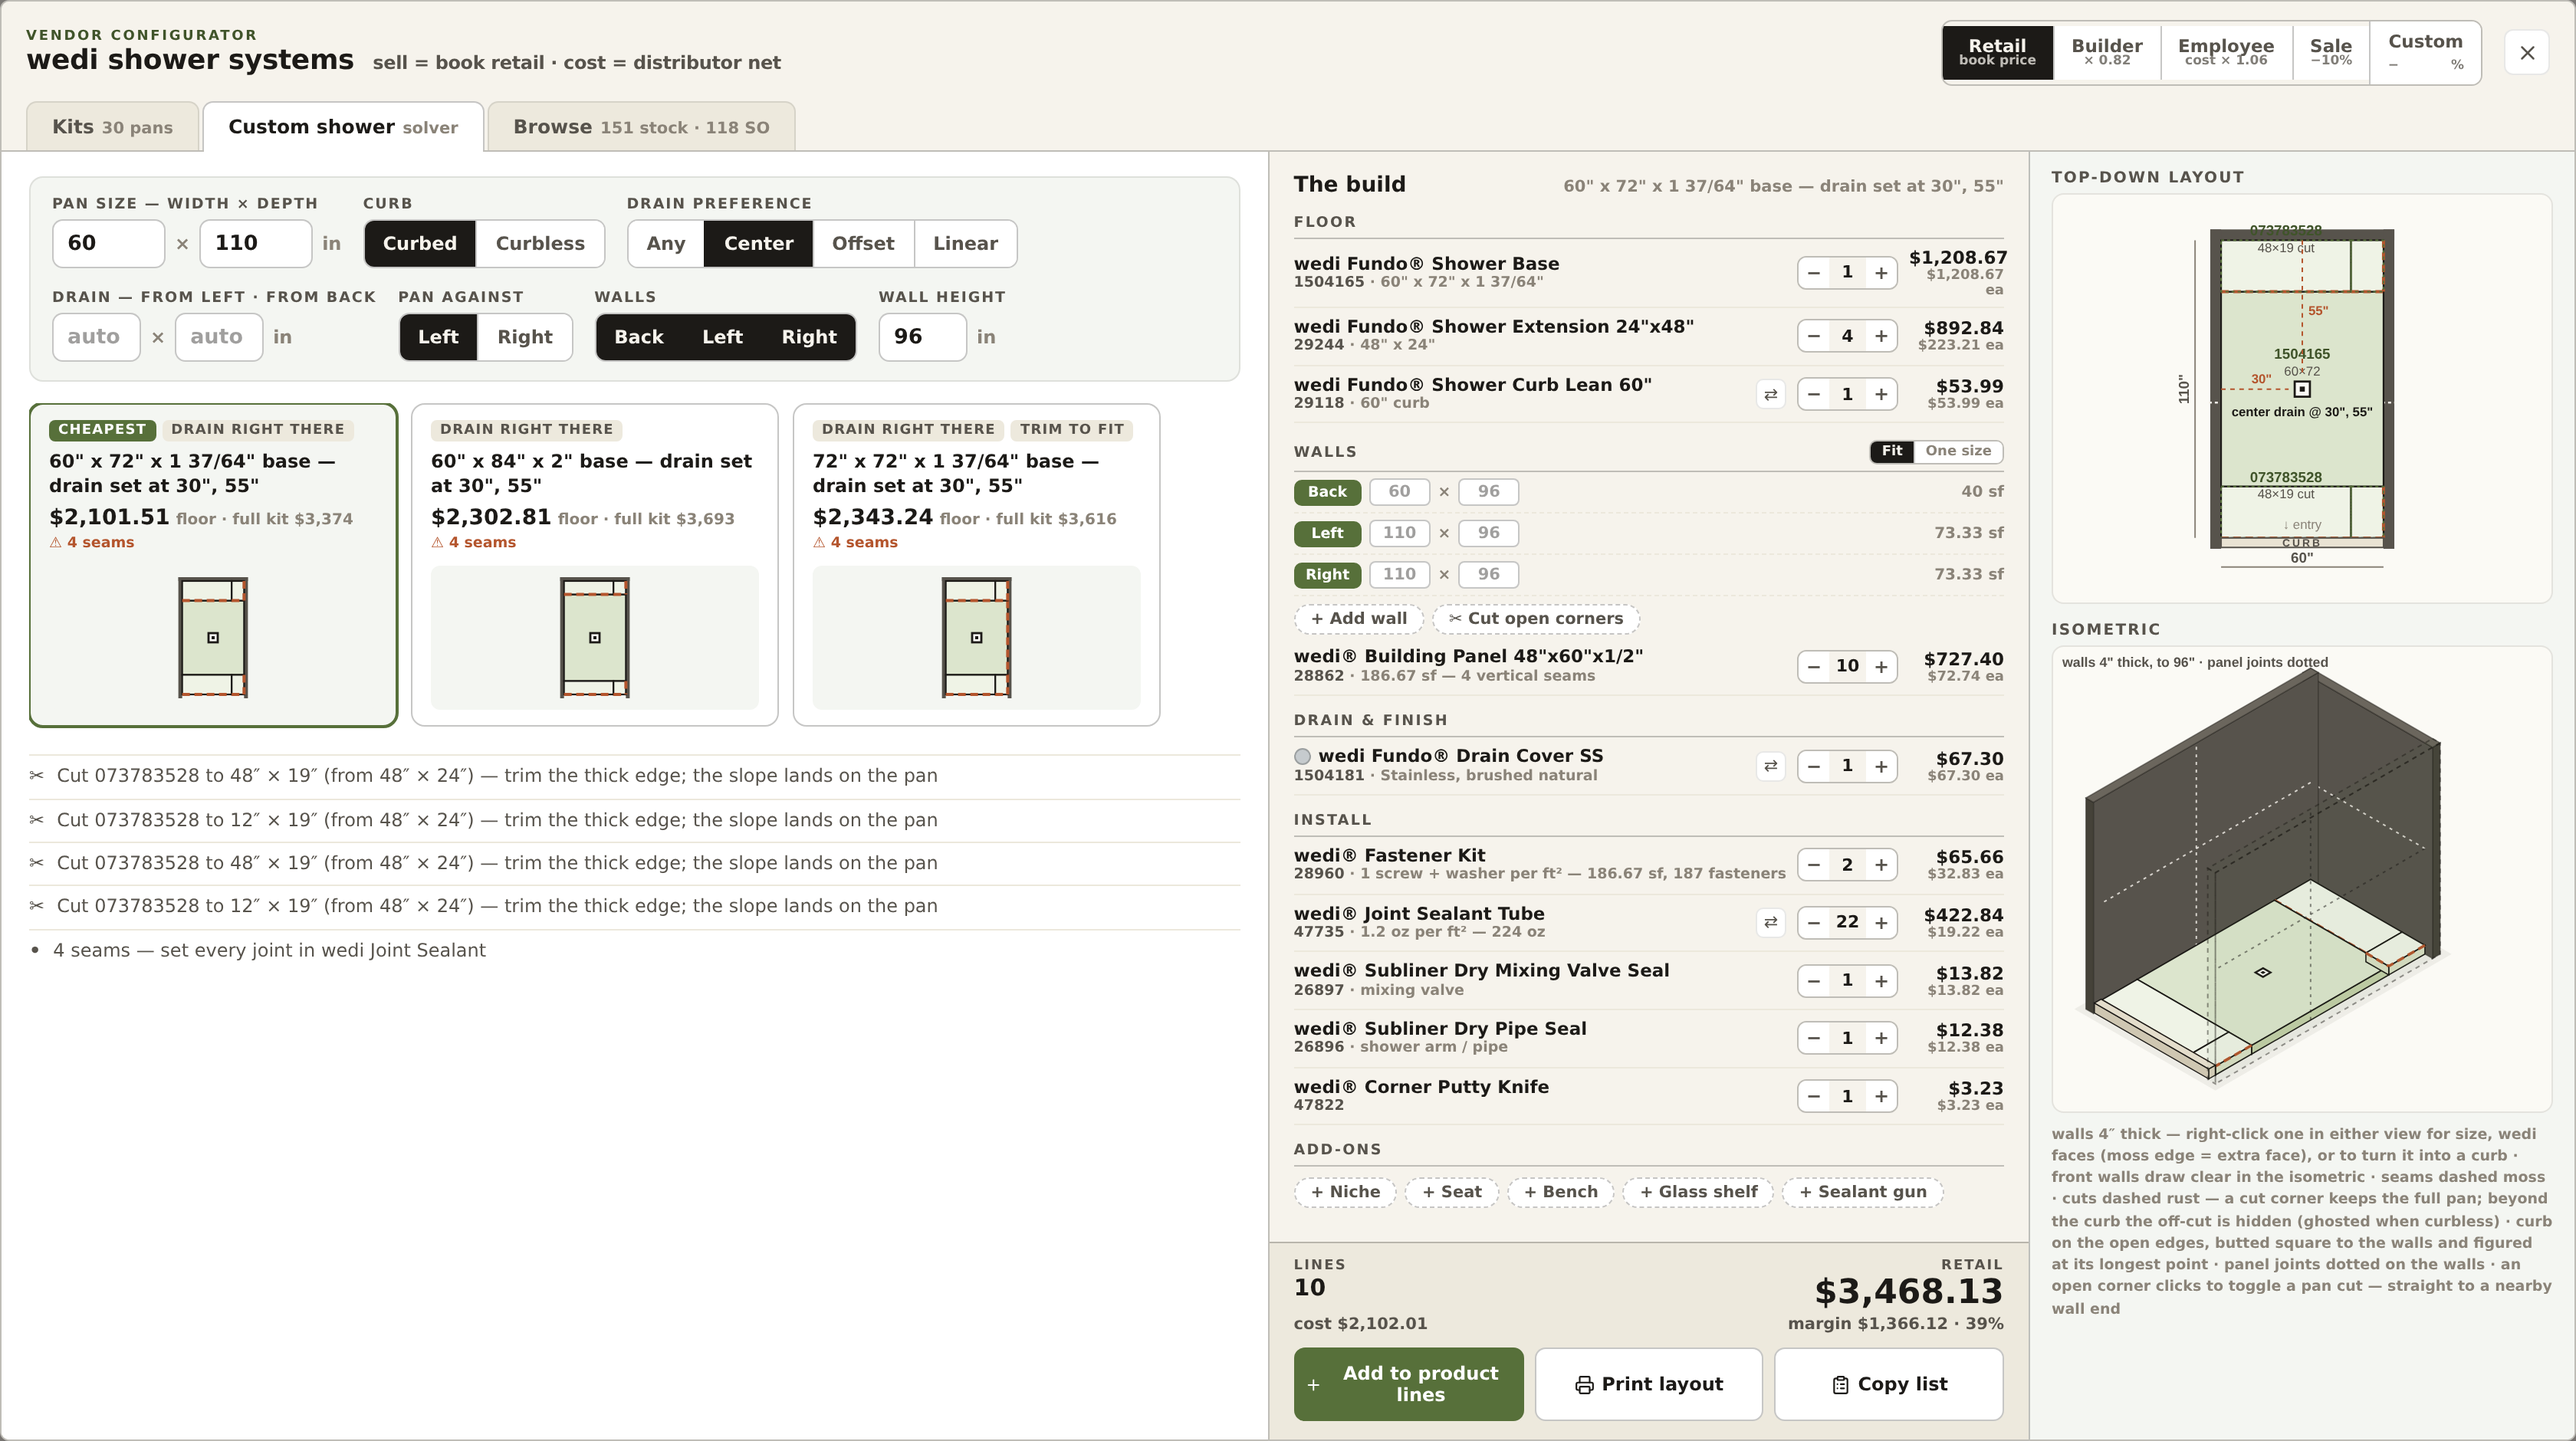
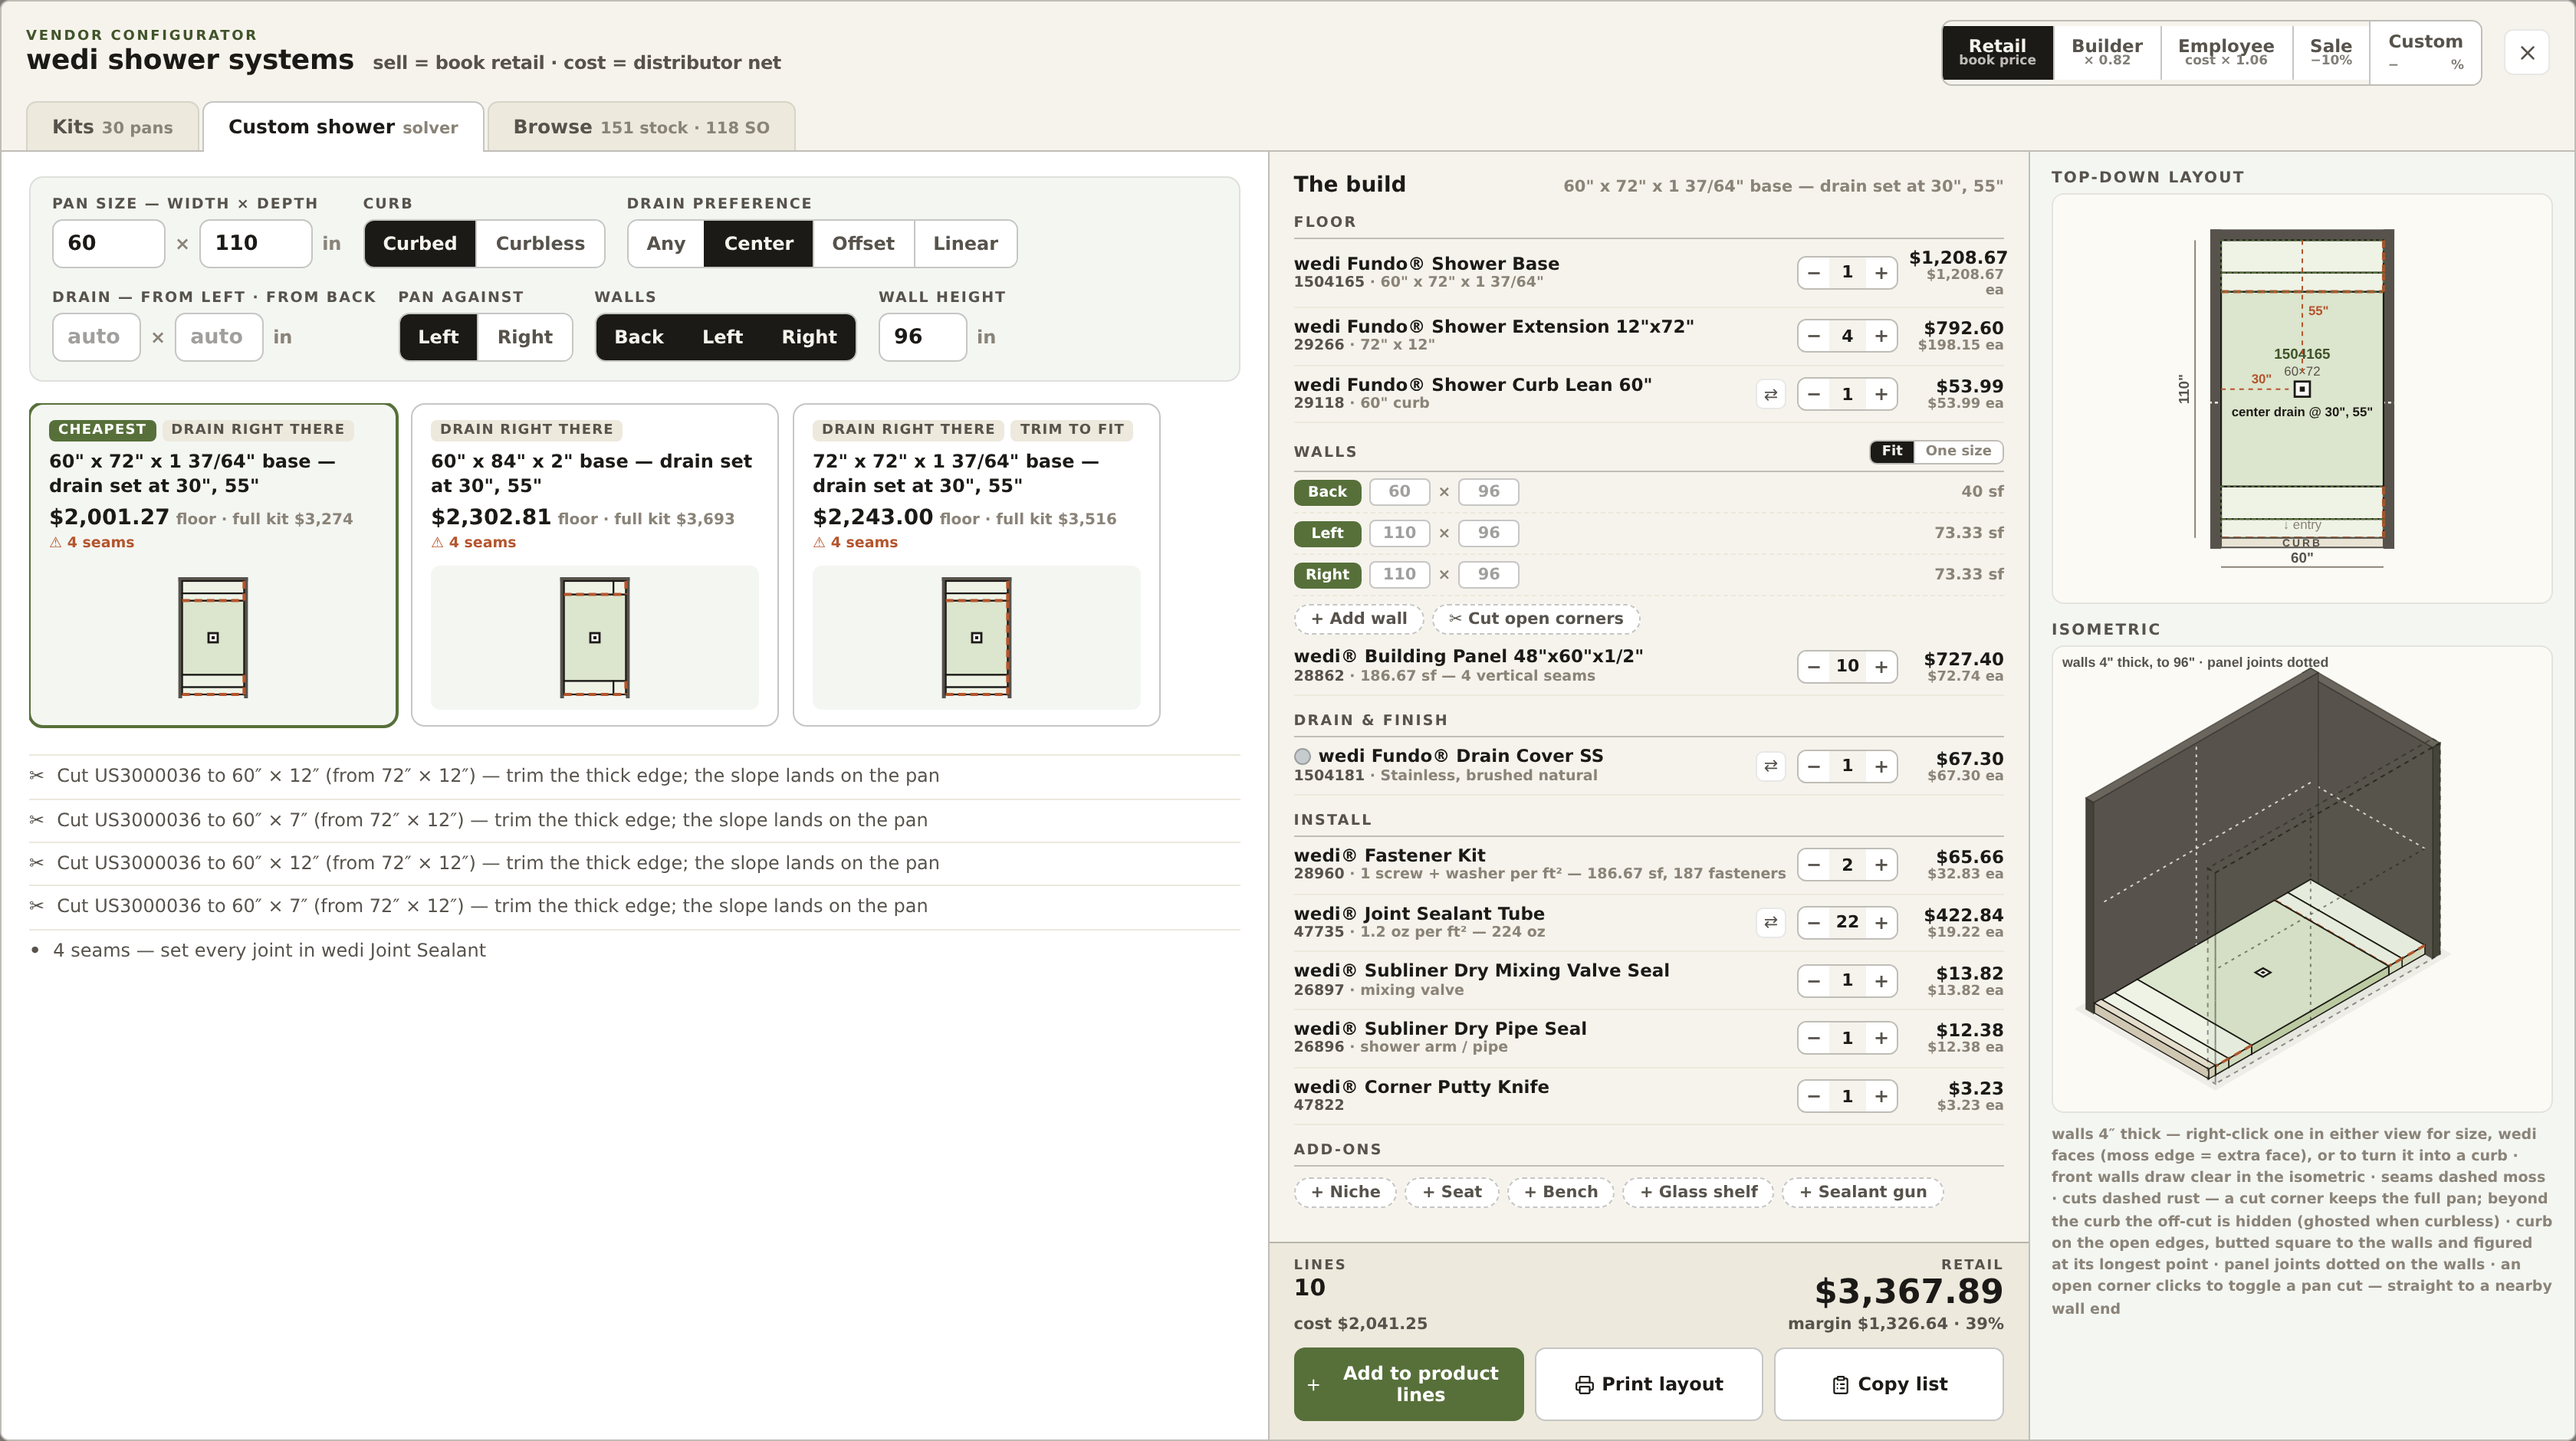
wedi solver: extension seams run horizontal (owner rule)
layers() now knows the side length it must span and scores every tight
stack by sliver -> vertical seams -> pieces -> cost: a stack of 12"-deep
x 72"-long extensions crossing the side in one piece beats a deeper 24"
piece that butts mid-run with a vertical seam, and a layer thinner than
MIN_GAP is the last resort. The 60x110 centre room's top pick is now the
owner's own build - 60x72 base + four full-width 12" extensions, the far
pair cut to 7", zero vertical seams. A 13" gap keeps the 24" layer (a
12" leaves a 1" sliver, worse than the butt seam); at exactly 12" it
takes the clean full-width 12x72.

870 node --test assertions passing, vite build clean, V1/V2 refreshed.

Claude-Session: https://claude.ai/code/session_01CGZQq77kLq7VGFWvCeT7EG

diff --git a/src/wedi.js b/src/wedi.js
@@ -4615,16 +4615,55 @@ function mapDrain(pan, rot, x0, y0) {
 }
 
 // A gap → the stacked extension layers that fill it, deepest against the pan.
-function layers(gap, fam) {
+// Seams lie HORIZONTAL by preference (owner rule 2026-07-30): a stack of
+// 12"-deep extensions that span the side in ONE piece beats a deeper layer
+// that has to butt mid-run (vertical seam), and a layer thinner than MIN_GAP
+// is the last resort. `sideLen` is the run the band has to cover.
+function layers(gap, fam, sideLen) {
   const spec = EXT[fam === "curbless" ? "curbless" : "fundo"];
   if (gap <= 0) return [];
   if (gap > spec.max + 0.01) return null;
-  const asc = spec.depths.slice().sort((a, b) => a - b);
-  const one = asc.filter((x) => x >= gap - 0.01)[0];
-  if (one != null) return [{ depth: gap, nominal: one, key: spec.items[one] }];
-  const big = asc[asc.length - 1];
-  const rest = layers(round2(gap - big), fam);
-  return rest ? [{ depth: big, nominal: big, key: spec.items[big] }].concat(rest) : null;
+  const L = +sideLen > 0 ? +sideLen : 0;
+  // every tight stack of nominal depths (none removable), deepest first
+  const stacks = [];
+  const walk = (stack, total) => {
+    if (total >= gap - 0.01) { stacks.push(stack.slice().sort((a, b) => b - a)); return; }
+    if (stack.length >= 3) return;
+    spec.depths.forEach((d) => walk(stack.concat([d]), total + d));
+  };
+  walk([], 0);
+  const seen = {};
+  let best = null;
+  stacks.forEach((st) => {
+    const key = st.join("+");
+    if (seen[key]) return;
+    seen[key] = true;
+    const tot = st.reduce((s, d) => s + d, 0);
+    if (st.length > 1 && st.some((d) => tot - d >= gap - 0.01)) return;   // a layer is superfluous
+    let rem = gap;
+    const lay = st.map((d, i) => {
+      const depth = i === st.length - 1 ? round2(rem) : Math.min(d, rem);
+      rem = round2(rem - depth);
+      return { depth: depth, nominal: d, key: spec.items[d] };
+    }).filter((l) => l.depth > 0.01);
+    const per = lay.map((l) => {
+      const it = item(l.key);
+      return { n: L ? (Math.ceil(round2(L / it.len - 0.0001)) || 1) : 1, retail: it.retail };
+    });
+    const cand = {
+      lay: lay,
+      sliver: lay.some((l) => l.depth < MIN_GAP - 0.01) ? 1 : 0,
+      vSeams: per.reduce((s, x) => s + x.n - 1, 0),
+      pieces: per.reduce((s, x) => s + x.n, 0),
+      cost: per.reduce((s, x) => s + x.n * x.retail, 0),
+    };
+    if (!best
+      || cand.sliver < best.sliver
+      || (cand.sliver === best.sliver && (cand.vSeams < best.vSeams
+        || (cand.vSeams === best.vSeams && (cand.pieces < best.pieces
+          || (cand.pieces === best.pieces && cand.cost < best.cost - 0.001)))))) best = cand;
+  });
+  return best ? best.lay : null;
 }
 
 // A gapped side → its pieces. Each layer is a band `depth` deep laid across
@@ -4711,11 +4750,11 @@ function extendOption(input, list, fam) {
       if (gw < -TRIM_MAX - 0.01 || gd < -TRIM_MAX - 0.01) return;
       if (gw <= 0 && gd <= 0) return;   // cutdown territory
       if ((gw > 0 && gw < MIN_GAP) || (gd > 0 && gd < MIN_GAP)) return;
-      const lw = gw > 0 ? layers(gw, fam) : [];
-      const ld = gd > 0 ? layers(gd, fam) : [];
+      const pw = Math.min(o.w, input.w), pd = Math.min(o.d, input.d);
+      const lw = gw > 0 ? layers(gw, fam, pd) : [];
+      const ld = gd > 0 ? layers(gd, fam, pw) : [];
       if (!lw || !ld) return;
       const trims = (gw < 0 ? 1 : 0) + (gd < 0 ? 1 : 0);
-      const pw = Math.min(o.w, input.w), pd = Math.min(o.d, input.d);
       let pieces = [{ kind: "pan", item: p, x: 0, y: 0, w: pw, d: pd, cut: trims ? { w: o.w, d: o.d } : null }];
       const warn = [];
       if (gw > 0) pieces = pieces.concat(runPieces("ext", lw, pw, 0, pd, true));
@@ -4729,7 +4768,7 @@ function extendOption(input, list, fam) {
           });
         } else {
           warn.push("corner over 12\" — mitre two straights at 45° instead of a corner extension");
-          const cw = gw > 0 ? layers(gw, fam) : [];
+          const cw = gw > 0 ? layers(gw, fam, gd) : [];
           pieces = pieces.concat(runPieces("ext", cw, pw, pd, gd, true));
         }
       }
@@ -4793,7 +4832,7 @@ function drainAtOptions(input, list, fam) {
       let dead = false;
       const fill = (g, x0, y0, sideLen, horizontal) => {
         if (!(g > 0) || dead) return;
-        const lay = layers(g, fam);
+        const lay = layers(g, fam, sideLen);
         if (!lay) { dead = true; return; }
         pieces = pieces.concat(runPieces("ext", lay, x0, y0, sideLen, horizontal));
       };

diff --git a/src/wedi.test.js b/src/wedi.test.js
@@ -415,10 +415,9 @@ test("wedi solver: exact · extend · cut down · linear, ranked", () => {
     if (!ex6) return false;
     const ext = ex6.pieces.slice(1);
     return ex6.pieces[0].item.key === "US9100016" && ext.length === 3 &&
-      ext[0].item.key === "073783528" && ext[0].w === 48 && ext[0].y === 72 && !ext[0].cut &&
-      ext[1].item.key === "073783528" && ext[1].w === 24 && ext[1].x === 48 && ext[1].cut.w === 48 &&
-      ext[2].item.key === "US3000036" && ext[2].d === 12 && ext[2].y === 96;
-  })(), "72×108 fundo stacks 24 + 12 and runs two pieces across the 72\" side");
+      ext.every((p) => p.item.key === "US3000036" && p.w === 72 && p.d === 12 && !p.cut) &&
+      ext[0].y === 72 && ext[1].y === 84 && ext[2].y === 96;
+  })(), "72×108 fundo stacks three full-width 12\" extensions — seams horizontal, none vertical (owner rule)");
   const s6 = solve({ w: 48, d: 72, curb: "curbless", drain: "any" });
   assert.ok(s6[0].kind === "exact" && s6[0].pieces[0].item.key === "US9200008", "48×72 curbless → exact US9200008");
   const s7 = solve({ w: 54, d: 66, curb: "curbless", drain: "any" });
@@ -488,6 +487,17 @@ test("wedi drain placement: the pan floats so the drain lands where the plumbing
     "60×110 center: every option covers all four room corners — no blanks");
   assert.ok(s11.some((o) => /60" x 84"/.test(o.pan.sizeText)),
     "the 60×84 big pan earns a card: " + s11.map((o) => o.pan.sizeText).join(" | "));
+  // Seams run horizontal (owner rule 2026-07-30): the top pick is the 60×72
+  // with two full-width 12" extensions per side — the far one cut to 7" —
+  // never a deeper piece butted mid-run with a vertical seam.
+  assert.ok((() => {
+    const o = s11[0];
+    const ext = o.pieces.slice(1);
+    return /60" x 72"/.test(o.pan.sizeText) && ext.length === 4 &&
+      ext.every((p) => p.item.key === "US3000036" && p.w === 60) &&
+      ext.filter((p) => p.d === 7).length === 2;
+  })(), "60×110 centre: 60×72 + four full-width 12\" extensions, the far pair cut to 7\": "
+    + JSON.stringify(s11[0].pieces.map((p) => p.item.key + " " + p.w + "x" + p.d)));
   // The 2"-deep 60×84 pairs with 1 37/64" extensions: the option warns about
   // the build-up and the kit carries the ½" sheet ripped into strips.
   assert.equal(panThick({ sizeText: '60" x 84" x 2"' }), 2);

diff --git a/.scratch/066_wedi-configurator/README.md b/.scratch/066_wedi-configurator/README.md
@@ -159,7 +159,17 @@ the pinned "Vendor configurators" row carrying Sheoga and wedi side by side.
   (3) A 2"-deep pan (60×84) pairing with 1 37/64" extensions warns about
   the height step and the kit carries a ½" 4×8 building panel figured by
   extension area — the shop rips it into build-up strips underneath
-  (`panThick`, `BUILDUP_SHEET`). `V1`/`V2` via `shoot-bigpan.mjs`
+  (`panThick`, `BUILDUP_SHEET`). `V1`/`V2` via `shoot-bigpan.mjs`.
+  Follow-up (same day, owner's 60×110 layout note): SEAMS RUN HORIZONTAL.
+  `layers()` now knows the side length it must span and scores every tight
+  stack by (sliver → vertical seams → pieces → cost): a stack of 12"-deep ×
+  72"-long extensions that cross the side in ONE piece beats a deeper 24"
+  piece that butts mid-run, and a layer thinner than MIN_GAP is the last
+  resort. The 60×110 centre room's top pick is now the owner's own build —
+  60×72 base + four full-width 12" extensions, the far pair cut to 7"
+  ($2,001.27, zero vertical seams). The 60×84's 13" gaps keep the 24" layer
+  (a 12" leaves a 1" sliver — worse than the butt seam); at 108" deep the
+  gaps are exactly 12" and it takes the two clean 12×72s. V1/V2 refreshed
 - Mobbin pattern references: [IKEA kitchen planner](https://mobbin.com/screens/46855235-8a29-4755-bf50-a856787778b0),
   [Walmart ingredients list](https://mobbin.com/screens/fd11011b-cfa3-4552-9d6f-caf36a1a2456),
   [Uber Eats item customize](https://mobbin.com/screens/c86d6d66-cc95-4ec3-9889-a0ceadf1eaeb)
